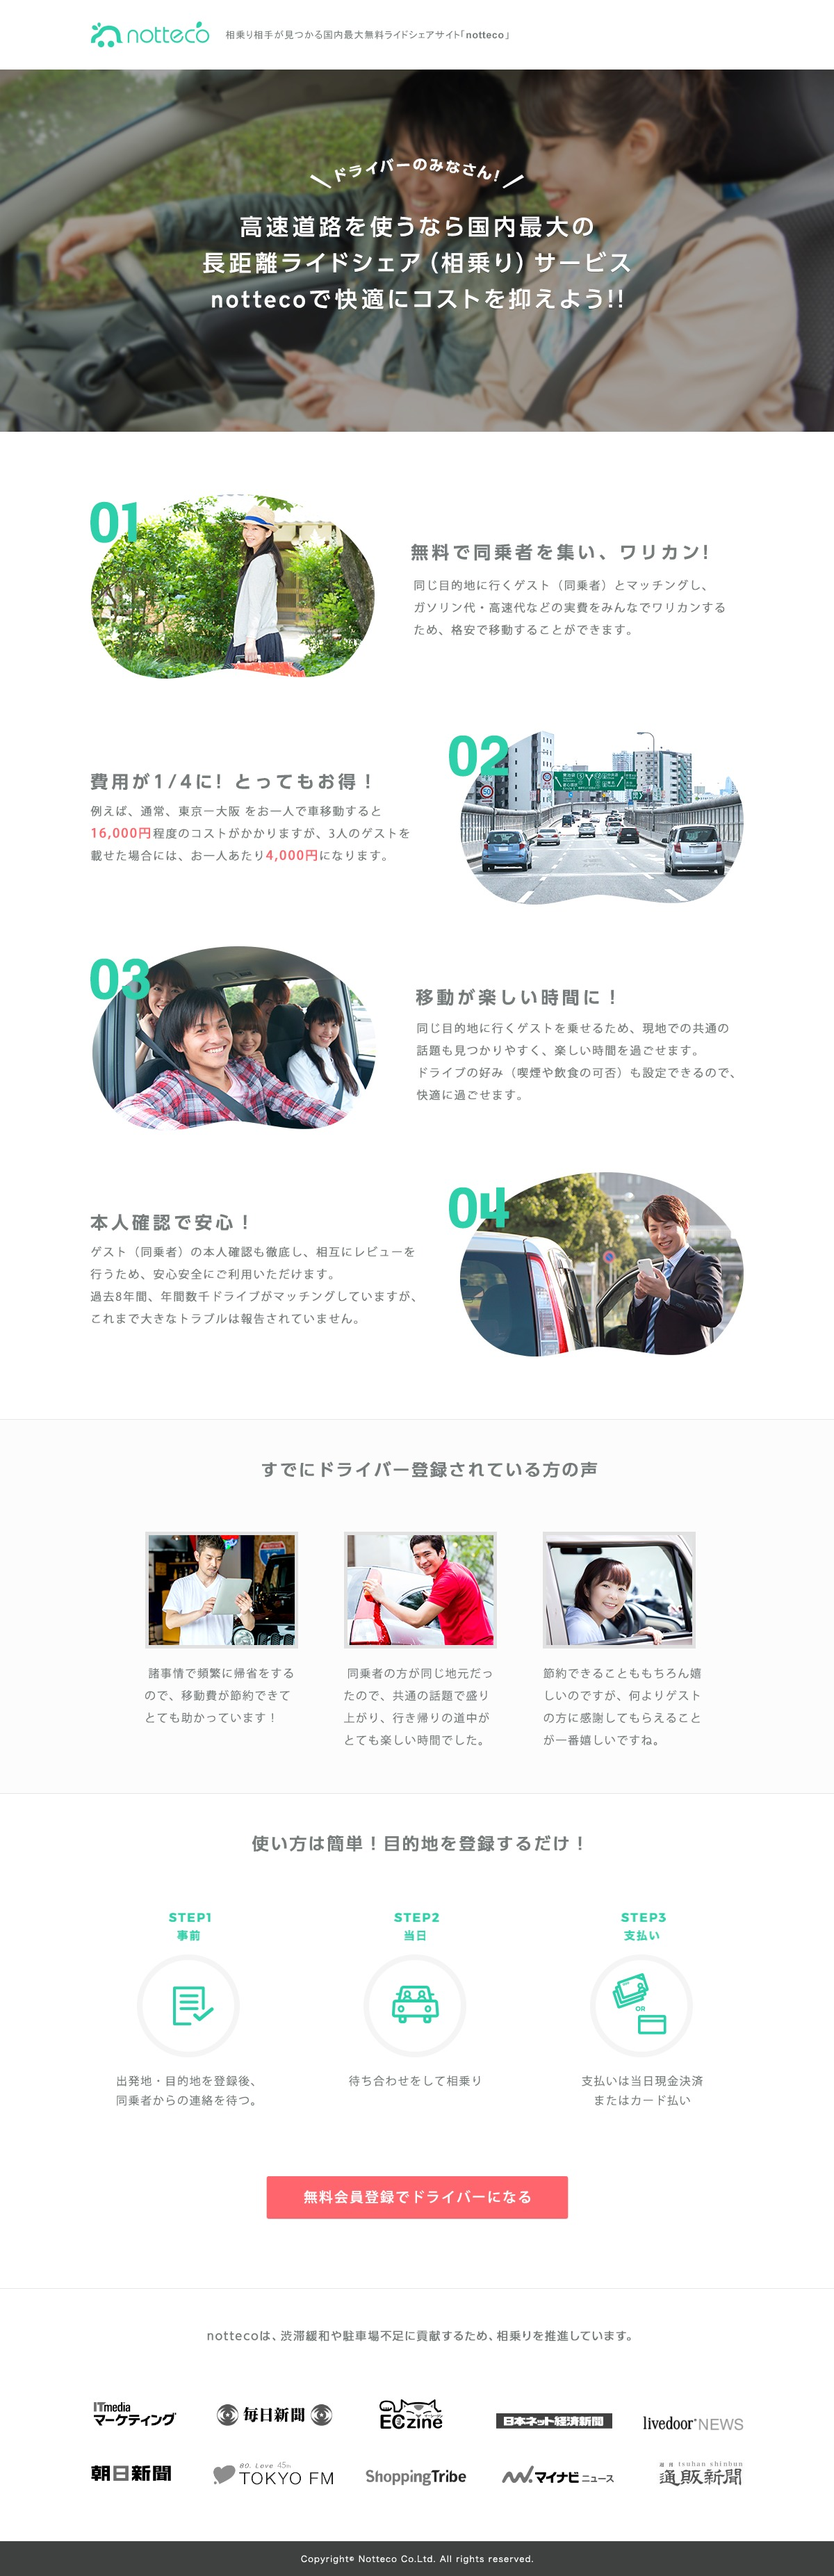
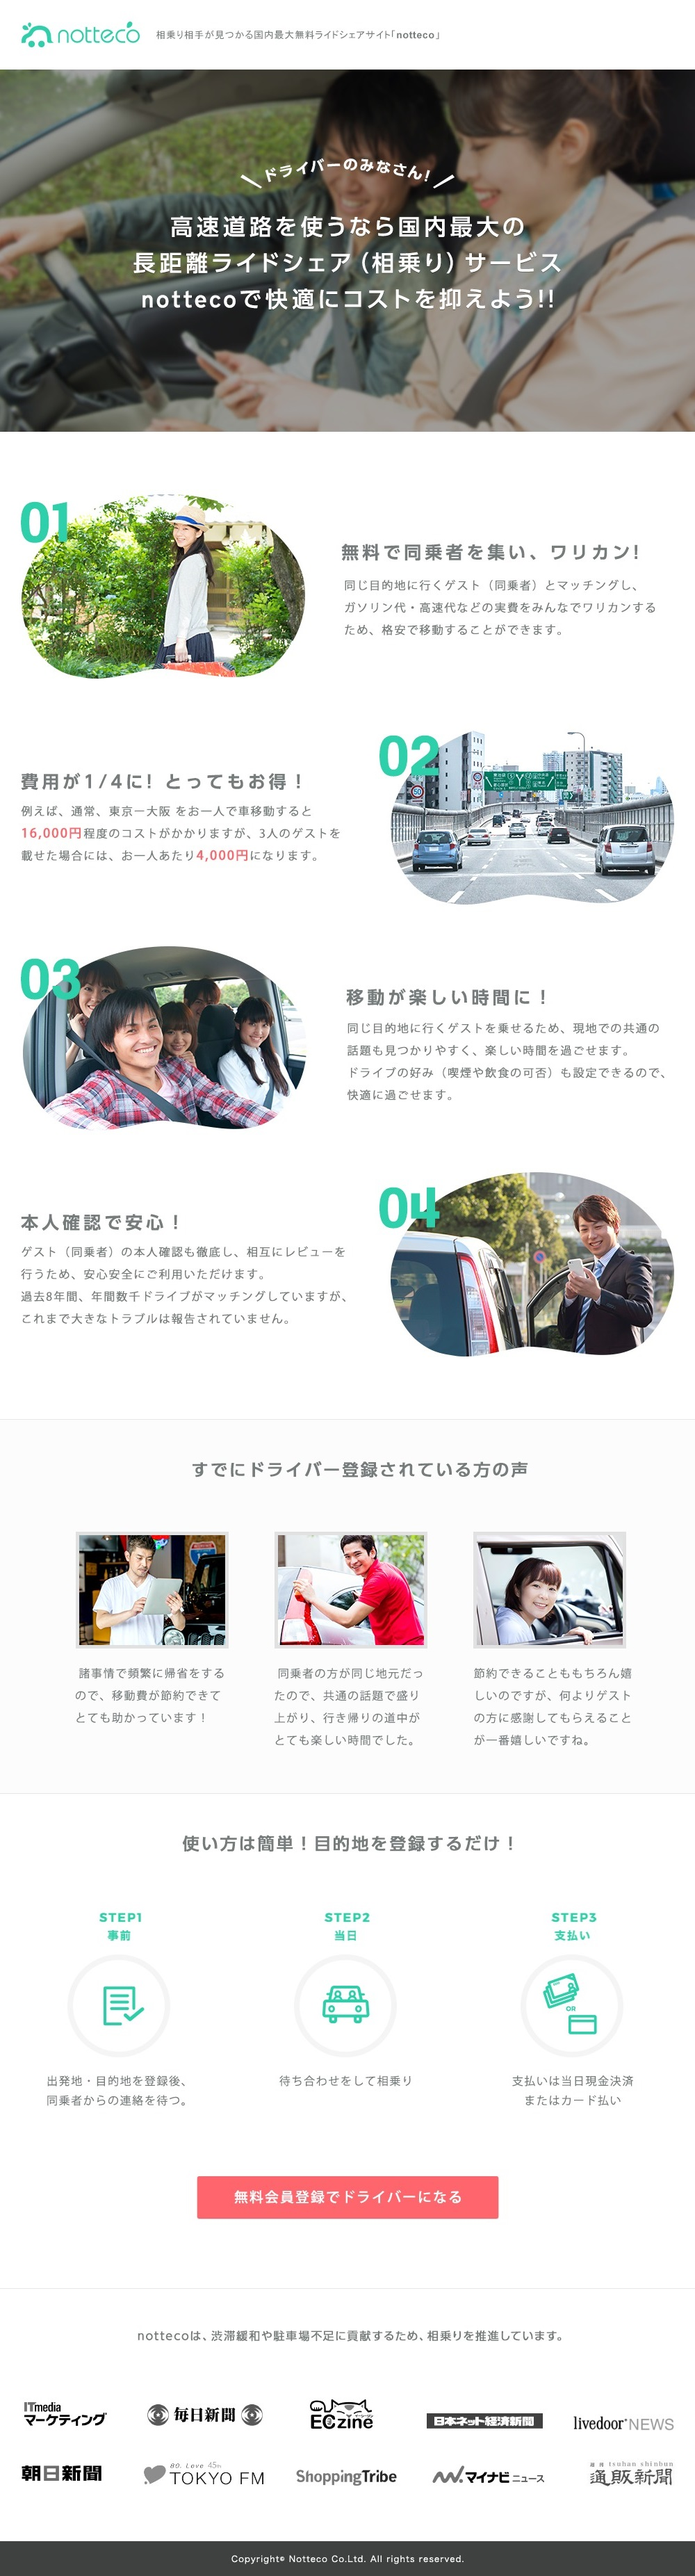
changed

diff --git a/index.html b/index.html
@@ -31,7 +31,7 @@ $('img[usemap]').rwdImageMaps();
  <div>
   <img src="driver_general_lp.jpg" usemap="#ImageMap" alt="同じ目的地に行くゲスト（同乗者）とマッチングし、ガソリン代・高速代などの実費をみんなでワリカンするため、格安で移動することができます。例えば、通常、東京ー大阪をお一人で車移動すると16,000円程度のコストがかかりますが、3人のゲストを載せた場合には、お一人あたり4,000円になります。同じ目的地に行くゲストを乗せるため、現地での共通の話題も見つかりやすく、楽しい時間を過ごせます。ドライブの好み（喫煙や飲食の可否）も設定できるので、快適に過ごせます。ゲスト（同乗者）の本人確認も徹底し、相互にレビューを行うため、安心安全にご利用いただけます。過去8年間、年間数千ドライブがマッチングしていますが、これまで大きなトラブルは報告されていません。" style="max-width:100%; height:auto;display: block;   margin-left: auto;   margin-right: auto;" />
   <map name="ImageMap">
-    <area shape="rect" coords="384,3129,818,3192" href="https://notteco.jp/register/" alt="無料会員登録でドライバーになる" />
+    <area shape="rect" coords="284,3130,719,3192" href="https://notteco.jp/register/" alt="無料会員登録でドライバーになる" />
   </map>
  </div>
 </body>
